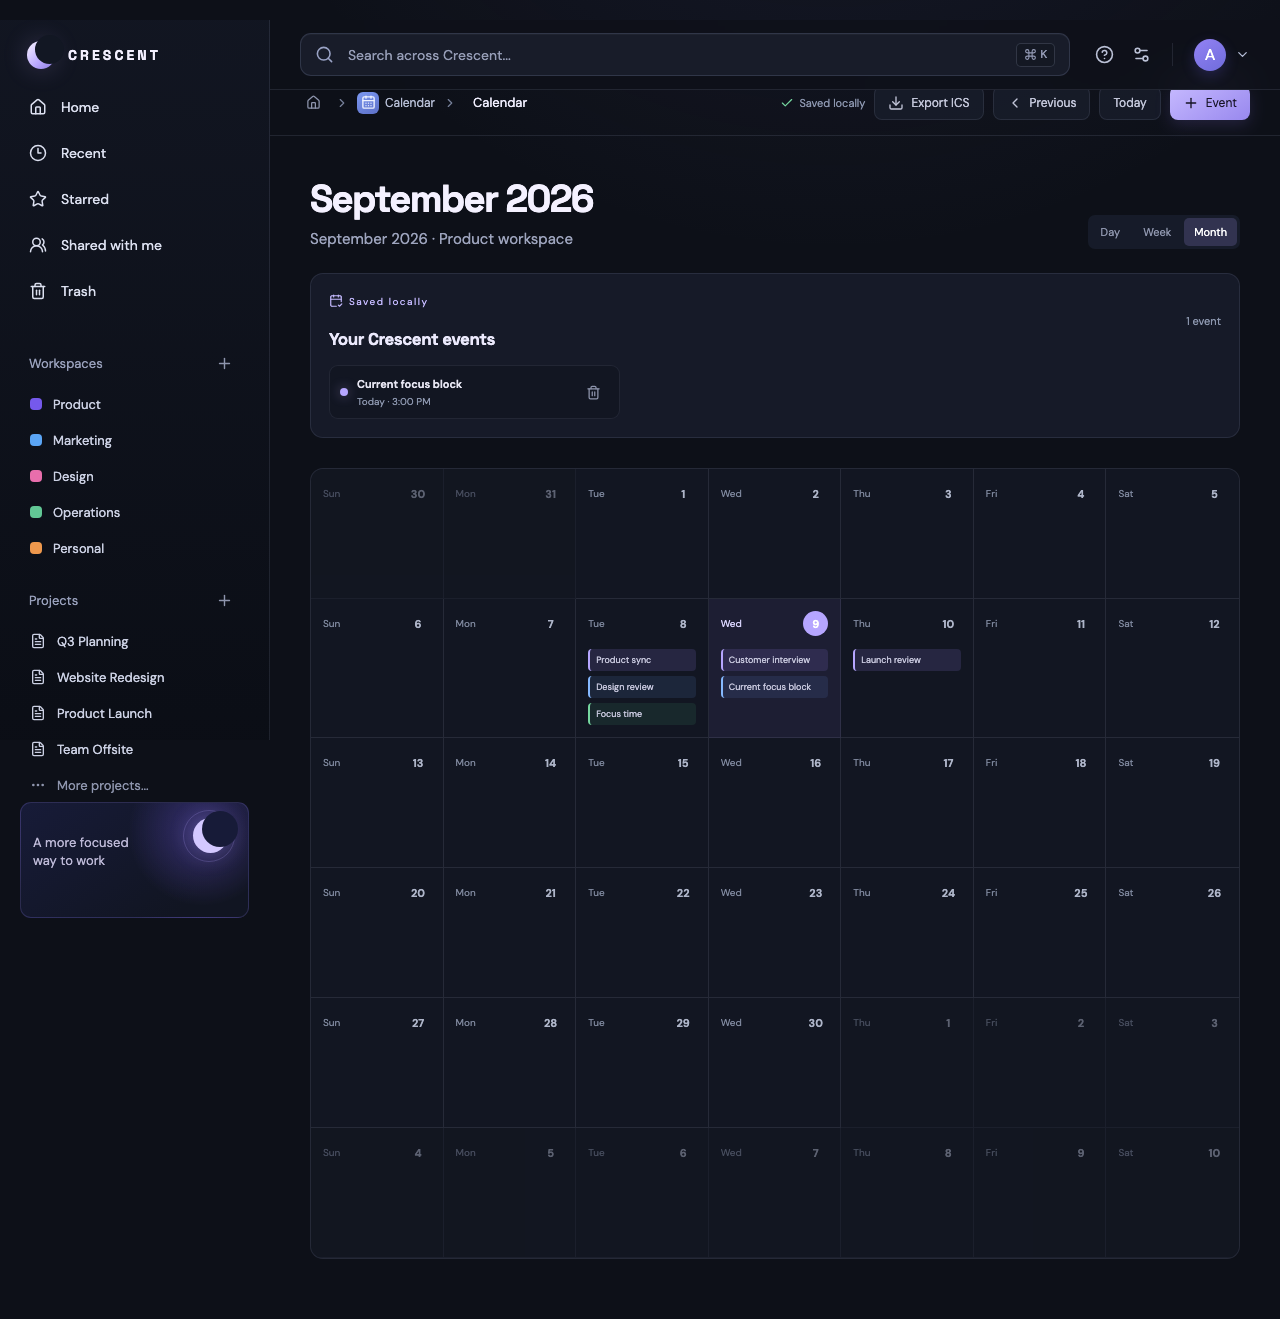
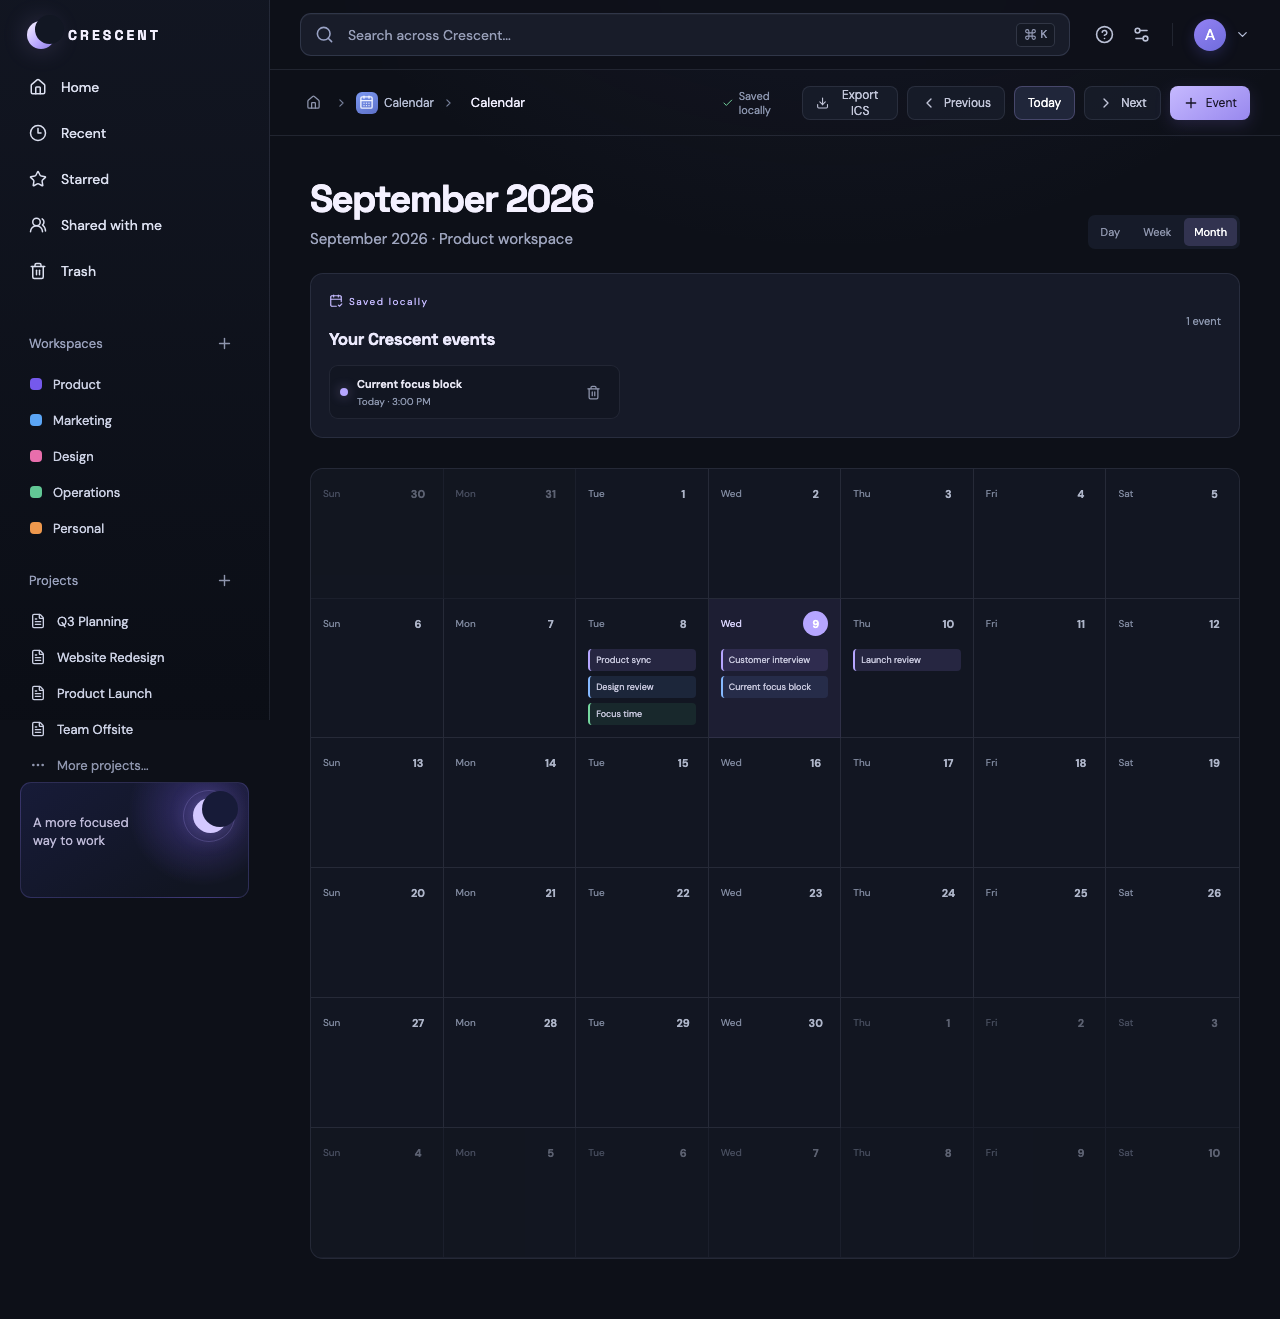
feat: add calendar mode-aware navigation

diff --git a/src/App.jsx b/src/App.jsx
@@ -398,6 +398,7 @@ function TasksView({ workspace, update, onNavigate }) {
 function CalendarView({ workspace, update, onNavigate }) {
   const [mode, setMode] = useState("week");
   const [weekOffset, setWeekOffset] = useState(0);
+  const [monthOffset, setMonthOffset] = useState(0);
   const localEvents = workspace.calendarEvents ?? [];
   const addEvent = () => {
     const title = window.prompt("Event title", "New focus block");
@@ -417,9 +418,19 @@ function CalendarView({ workspace, update, onNavigate }) {
     downloadText("crescent-calendar.ics", `${calendar}\r\n`, "text/calendar");
     emitNotice(`${localEvents.length} calendar event${localEvents.length === 1 ? "" : "s"} exported.`);
   };
-  const displayDate = new Date();
-  displayDate.setHours(0, 0, 0, 0);
-  displayDate.setDate(displayDate.getDate() + weekOffset * 7);
+  const now = new Date();
+  now.setHours(0, 0, 0, 0);
+  const displayDate = new Date(now);
+  if (mode === "month") {
+    const dayOfMonth = displayDate.getDate();
+    displayDate.setDate(1);
+    displayDate.setMonth(displayDate.getMonth() + monthOffset);
+    const lastDay = new Date(displayDate.getFullYear(), displayDate.getMonth() + 1, 0).getDate();
+    displayDate.setDate(Math.min(dayOfMonth, lastDay));
+  } else {
+    displayDate.setDate(displayDate.getDate() + weekOffset * 7);
+  }
+  const todayKey = now.toISOString().slice(0, 10);
   const displayHeading = new Intl.DateTimeFormat("en-US", { weekday: "long", month: "long", day: "numeric" }).format(displayDate);
   const displayMonth = new Intl.DateTimeFormat("en-US", { month: "long", year: "numeric" }).format(displayDate);
   const shortDisplayDay = new Intl.DateTimeFormat("en-US", { weekday: "short" }).format(displayDate);
@@ -429,9 +440,9 @@ function CalendarView({ workspace, update, onNavigate }) {
   const seededMonthEvents = new Map([[seedDate(2), ["Product sync", "Design review", "Focus time"]], [seedDate(3), ["Customer interview"]], [seedDate(4), ["Launch review"]]]);
   const monthStart = new Date(displayDate.getFullYear(), displayDate.getMonth(), 1);
   const monthDays = Array.from({ length: 42 }, (_, index) => { const date = new Date(monthStart); date.setDate(index - monthStart.getDay() + 1); const dateKey = date.toISOString().slice(0, 10); return { label: new Intl.DateTimeFormat("en-US", { weekday: "short" }).format(date), date: date.getDate(), dateKey, currentMonth: date.getMonth() === displayDate.getMonth(), events: [...(seededMonthEvents.get(dateKey) ?? []), ...localEventsForDate(date)] }; });
-  const monthCalendar = <div className="calendar-month-grid">{monthDays.map((day) => <div className={`calendar-month-cell ${day.currentMonth ? "" : "muted"} ${weekOffset === 0 && day.dateKey === displayDate.toISOString().slice(0, 10) ? "today" : ""}`} key={day.dateKey}><div className="calendar-month-head"><span>{day.label}</span><strong>{day.date}</strong></div><div className="calendar-month-events">{day.events.map((event, index) => <span className={`calendar-month-event month-event-${index % 4}`} key={`${day.dateKey}-${event}`}>{event}</span>)}</div></div>)}</div>;
+  const monthCalendar = <div className="calendar-month-grid">{monthDays.map((day) => <div className={`calendar-month-cell ${day.currentMonth ? "" : "muted"} ${day.dateKey === todayKey ? "today" : ""}`} key={day.dateKey}><div className="calendar-month-head"><span>{day.label}</span><strong>{day.date}</strong></div><div className="calendar-month-events">{day.events.map((event, index) => <span className={`calendar-month-event month-event-${index % 4}`} key={`${day.dateKey}-${event}`}>{event}</span>)}</div></div>)}</div>;
   const weekCalendar = <div className={`calendar-grid ${mode === "day" ? "calendar-grid-day" : ""}`}><div className="calendar-axis"><span /><span>9 AM</span><span>10 AM</span><span>11 AM</span><span>12 PM</span><span>1 PM</span><span>2 PM</span><span>3 PM</span><span>4 PM</span><span>5 PM</span></div><div className="calendar-day"><div className="calendar-day-head"><span>{weekOffset === 0 ? "Today" : shortDisplayDay}</span><strong>{weekDates[0]}</strong></div><div className="calendar-lines">{Array.from({ length: 9 }, (_, index) => <span key={index} />)}<div className="calendar-event event-one"><strong>Product sync</strong><small>Team · 9:00–9:45</small></div><div className="calendar-event event-two"><strong>Design review</strong><small>Design · 10:00–11:00</small></div><div className="calendar-event event-three"><strong>Focus time</strong><small>Personal · 1:00–3:00</small></div><div className="calendar-event event-four"><strong>Marketing check-in</strong><small>Marketing · 4:00–4:30</small></div></div></div><div className="calendar-day muted-day"><div className="calendar-day-head"><span>{new Intl.DateTimeFormat("en-US", { weekday: "short" }).format(new Date(displayDate.getTime() + 86400000))}</span><strong>{weekDates[1]}</strong></div><div className="calendar-lines">{Array.from({ length: 9 }, (_, index) => <span key={index} />)}<div className="calendar-event event-five"><strong>Customer interview</strong><small>Research · 11:00–12:00</small></div></div></div><div className="calendar-day muted-day"><div className="calendar-day-head"><span>{new Intl.DateTimeFormat("en-US", { weekday: "short" }).format(new Date(displayDate.getTime() + 172800000))}</span><strong>{weekDates[2]}</strong></div><div className="calendar-lines">{Array.from({ length: 9 }, (_, index) => <span key={index} />)}<div className="calendar-event event-six"><strong>Launch review</strong><small>Product · 2:00–3:00</small></div></div></div></div>;
-  return <div className="calendar-page page-enter"><EditorHeader title="Calendar" icon={APP_META.find((app) => app.id === "calendar")} onChangeTitle={() => {}} onNavigate={onNavigate}><button className="secondary-button" onClick={exportCalendar} disabled={!localEvents.length}><Download size={16} />Export ICS</button><button className="secondary-button" onClick={() => setWeekOffset((current) => current - 1)}><ChevronLeft size={16} />Previous</button><button className="secondary-button" onClick={() => setWeekOffset(0)}>Today</button><button className="primary-button" onClick={addEvent}><Plus size={16} />Event</button></EditorHeader><div className="calendar-content"><div className="calendar-heading"><div><h1>{mode === "month" ? displayMonth : displayHeading}</h1><p>{mode === "month" ? `${displayMonth} · Product workspace` : mode === "day" ? `${shortDisplayDay} · Product workspace` : `Week of ${displayHeading} · Product workspace`}</p></div><div className="calendar-switch"><button className={mode === "day" ? "selected" : ""} onClick={() => setMode("day")} aria-pressed={mode === "day"}>Day</button><button className={mode === "week" ? "selected" : ""} onClick={() => setMode("week")} aria-pressed={mode === "week"}>Week</button><button className={mode === "month" ? "selected" : ""} onClick={() => setMode("month")} aria-pressed={mode === "month"}>Month</button></div></div>{localEvents.length > 0 && <section className="calendar-local-events" aria-label="Saved local events"><div className="calendar-local-heading"><div><span className="utility-kicker"><CalendarCheck2 size={14} />Saved locally</span><h2>Your Crescent events</h2></div><small>{localEvents.length} event{localEvents.length === 1 ? "" : "s"}</small></div><div className="calendar-local-list">{localEvents.map((event) => <div className="calendar-local-card" key={event.id}><span className="calendar-local-dot" /><div><strong>{event.title}</strong><small>{event.when}</small></div><button className="icon-button muted" onClick={() => removeEvent(event.id)} aria-label={`Remove ${event.title}`}><Trash2 size={15} /></button></div>)}</div></section>}{mode === "month" ? monthCalendar : weekCalendar}</div></div>;
+  return <div className="calendar-page page-enter"><EditorHeader title="Calendar" icon={APP_META.find((app) => app.id === "calendar")} onChangeTitle={() => {}} onNavigate={onNavigate}><button className="secondary-button" onClick={exportCalendar} disabled={!localEvents.length}><Download size={16} />Export ICS</button><button className="secondary-button" onClick={() => mode === "month" ? setMonthOffset((current) => current - 1) : setWeekOffset((current) => current - 1)}><ChevronLeft size={16} />Previous</button><button className="secondary-button" onClick={() => { setWeekOffset(0); setMonthOffset(0); }}>Today</button><button className="secondary-button" onClick={() => mode === "month" ? setMonthOffset((current) => current + 1) : setWeekOffset((current) => current + 1)}><ChevronRight size={16} />Next</button><button className="primary-button" onClick={addEvent}><Plus size={16} />Event</button></EditorHeader><div className="calendar-content"><div className="calendar-heading"><div><h1>{mode === "month" ? displayMonth : displayHeading}</h1><p>{mode === "month" ? `${displayMonth} · Product workspace` : mode === "day" ? `${shortDisplayDay} · Product workspace` : `Week of ${displayHeading} · Product workspace`}</p></div><div className="calendar-switch"><button className={mode === "day" ? "selected" : ""} onClick={() => setMode("day")} aria-pressed={mode === "day"}>Day</button><button className={mode === "week" ? "selected" : ""} onClick={() => setMode("week")} aria-pressed={mode === "week"}>Week</button><button className={mode === "month" ? "selected" : ""} onClick={() => setMode("month")} aria-pressed={mode === "month"}>Month</button></div></div>{localEvents.length > 0 && <section className="calendar-local-events" aria-label="Saved local events"><div className="calendar-local-heading"><div><span className="utility-kicker"><CalendarCheck2 size={14} />Saved locally</span><h2>Your Crescent events</h2></div><small>{localEvents.length} event{localEvents.length === 1 ? "" : "s"}</small></div><div className="calendar-local-list">{localEvents.map((event) => <div className="calendar-local-card" key={event.id}><span className="calendar-local-dot" /><div><strong>{event.title}</strong><small>{event.when}</small></div><button className="icon-button muted" onClick={() => removeEvent(event.id)} aria-label={`Remove ${event.title}`}><Trash2 size={15} /></button></div>)}</div></section>}{mode === "month" ? monthCalendar : weekCalendar}</div></div>;
 }
 
 function _DriveViewLegacy({ onNavigate }) {

diff --git a/README.md b/README.md
@@ -4,7 +4,7 @@ An all-in-one productivity workspace built to keep the work in one calm, consist
 
 ## Current release
 
-**v0.1.81 — Calendar Month is a real six-week grid**
+**v0.1.82 — Calendar navigation matches the active view**
 
 The first release establishes the Crescent product shell and a local-first suite experience:
 
@@ -24,6 +24,7 @@ The first release establishes the Crescent product shell and a local-first suite
 - Calendar Month view now places saved local events in the matching stored day column
 - Calendar Month view keeps pre-date-metadata local events visible on the current day during migration
 - Calendar Month now renders a complete six-week grid with muted adjacent-month days and date-aware saved events
+- Calendar Previous/Next now move by week in Day/Week mode and by month in Month mode; Today resets either view
 - Home reflects saved local calendar events, and Forms keeps its published/response state across navigation
 - Global Search includes locally created tasks, Drive folders, and Calendar events with correct app routing
 - Tasks now filters between All, Today, Open, and Done from the shared editor header

diff --git a/docs/preview/README.md b/docs/preview/README.md
@@ -1,4 +1,4 @@
-# v0.1.81 visual preview
+# v0.1.82 visual preview
 
 These screenshots are committed with Crescent milestones so the product can be reviewed directly from GitHub. The live preview is deployed from `main` through GitHub Pages when Pages is enabled for the repository.
 
